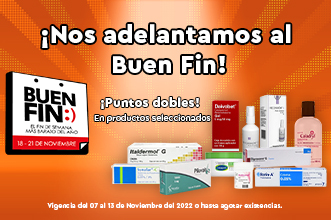
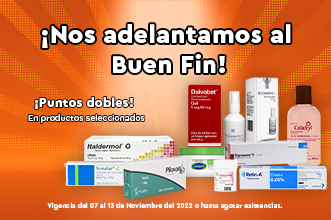
correccion img y vigencia

diff --git a/el-tarjeton/Nov-04/mail/index.html b/el-tarjeton/Nov-04/mail/index.html
@@ -355,7 +355,7 @@
                   
       <div
          style="font-family:Ubuntu, Helvetica, Arial, sans-serif;font-size:18px;line-height:1;text-align:center;color:#234270;"
-      >VIGENCIA DEL 31 DE OCTUBRE AL 06 DE NOVIEMBRE DEL 2022</div>
+      >VIGENCIA DEL 07 AL 13 DE NOVIEMBRE DEL 2022</div>
     
                 </td>
               </tr>
@@ -367,7 +367,7 @@
                   
       <div
          style="font-family:Ubuntu, Helvetica, Arial, sans-serif;font-size:14px;line-height:1;text-align:center;color:#234270;"
-      >Vigencia del 31 de Octubre al 06 de Noviembre del 2022 o hasta agotar existencias. Aplica en sucursales participantes de El Tarjetón. Esta campaña es personal e intransferible. No aplica pago con Puntos. El socio acumula Puntos Dobles exclusivamente en los productos seleccionados en las cadenas participantes durante el periodo indicado. La bonificación en puntos aplica mostrando su tarjeta El Tarjetón. </div>
+      >Vigencia del 07 al 13 de Noviembre del 2022 o hasta agotar existencias. Aplica en sucursales participantes de El Tarjetón. Esta campaña es personal e intransferible. No aplica pago con Puntos. El socio acumula Puntos Dobles exclusivamente en los productos seleccionados en las cadenas participantes durante el periodo indicado. La bonificación en puntos aplica mostrando su tarjeta El Tarjetón.</div>
     
                 </td>
               </tr>
